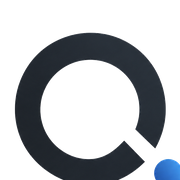
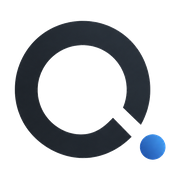
a

diff --git a/demos.html b/demos.html
@@ -42,7 +42,7 @@
 <div class="scrim" id="scrim" hidden></div>
 <aside class="drawer" id="drawer" role="dialog" aria-modal="true" aria-label="Menu" hidden>
   <div class="d-head">
-    <span class="brand">Quorelia</span>
+    <span class="brand"><img src="quorelia-mark-64.png" alt="" width="22" height="22" style="display:inline-block;"><span>Quorelia</span></span>
     <button class="burger" id="d-close" style="display:block" aria-label="Close">
       <svg viewBox="0 0 24 24" fill="none" stroke="currentColor" stroke-width="1.6" stroke-linecap="round"><path d="M5 5l14 14M19 5L5 19"/></svg>
     </button>
@@ -66,7 +66,7 @@
 
 <header class="head">
   <div class="wrap nav">
-    <a href="index.html" class="brand">Quorelia</a>
+    <a href="index.html" class="brand"><img src="quorelia-mark-64.png" alt="" width="22" height="22" style="display:inline-block;"><span>Quorelia</span></a>
     <nav class="nav-links">
       <a href="index.html#software" data-i18n="nav_sw">Our Software</a>
       <a href="demos.html" class="on" data-i18n="nav_demos">Demos</a>
@@ -184,7 +184,7 @@
   <div class="wrap">
     <div class="f-grid">
       <div>
-        <a href="index.html" class="brand" style="display:inline-block;margin-bottom:14px;">Quorelia</a>
+        <a href="index.html" class="brand" style="display:inline-block;margin-bottom:14px;"><img src="quorelia-mark-64.png" alt="" width="22" height="22" style="display:inline-block;"><span>Quorelia</span></a>
         <p style="font-size:13.5px;color:var(--ink-2);max-width:34ch;" data-i18n="f_desc">Intelligence for critical energy infrastructure. Solar, wind and storage.</p>
       </div>
       <div>

diff --git a/story.html b/story.html
@@ -53,7 +53,7 @@
 <div class="scrim" id="scrim" hidden></div>
 <aside class="drawer" id="drawer" role="dialog" aria-modal="true" aria-label="Menu" hidden>
   <div class="d-head">
-    <span class="brand">Quorelia</span>
+    <span class="brand"><img src="quorelia-mark-64.png" alt="" width="22" height="22" style="display:inline-block;"><span>Quorelia</span></span>
     <button class="burger" id="d-close" style="display:block" aria-label="Close">
       <svg viewBox="0 0 24 24" fill="none" stroke="currentColor" stroke-width="1.6" stroke-linecap="round"><path d="M5 5l14 14M19 5L5 19"/></svg>
     </button>
@@ -77,7 +77,7 @@
 
 <header class="head">
   <div class="wrap nav">
-    <a href="index.html" class="brand">Quorelia</a>
+    <a href="index.html" class="brand"><img src="quorelia-mark-64.png" alt="" width="22" height="22" style="display:inline-block;"><span>Quorelia</span></a>
     <nav class="nav-links">
       <a href="index.html#software" data-i18n="nav_sw">Our Software</a>
     <a href="index.html#platform" data-i18n="nav_plat">Control Center</a>
@@ -194,7 +194,7 @@
   <div class="wrap">
     <div class="f-grid">
       <div>
-        <a href="index.html" class="brand" style="display:inline-block;margin-bottom:14px;">Quorelia</a>
+        <a href="index.html" class="brand" style="display:inline-block;margin-bottom:14px;"><img src="quorelia-mark-64.png" alt="" width="22" height="22" style="display:inline-block;"><span>Quorelia</span></a>
         <p style="font-size:13.5px;max-width:34ch;" data-i18n="f_desc">Intelligence for critical energy infrastructure. Solar, wind and storage.</p>
       </div>
       <div>

diff --git a/index.html b/index.html
@@ -38,7 +38,7 @@
 <div class="scrim" id="scrim" hidden></div>
 <aside class="drawer" id="drawer" role="dialog" aria-modal="true" aria-label="Menu" hidden>
   <div class="d-head">
-    <span class="brand">Quorelia</span>
+    <span class="brand"><img src="quorelia-mark-64.png" alt="" width="22" height="22" style="display:inline-block;"><span>Quorelia</span></span>
     <button class="burger" id="d-close" style="display:block" aria-label="Close">
       <svg viewBox="0 0 24 24" fill="none" stroke="currentColor" stroke-width="1.6" stroke-linecap="round"><path d="M5 5l14 14M19 5L5 19"/></svg>
     </button>
@@ -64,7 +64,7 @@
 
 <header class="head">
   <div class="wrap nav">
-    <a href="index.html" class="brand">Quorelia</a>
+    <a href="index.html" class="brand"><img src="quorelia-mark-64.png" alt="" width="22" height="22" style="display:inline-block;"><span>Quorelia</span></a>
     <nav class="nav-links">
       <a href="#software" data-i18n="nav_sw">Our Software</a>
     <a href="#platform" data-i18n="nav_plat">Control Center</a>
@@ -730,7 +730,7 @@
   <div class="wrap">
     <div class="f-grid">
       <div>
-        <a href="index.html" class="brand" style="display:inline-block;margin-bottom:14px;">Quorelia</a>
+        <a href="index.html" class="brand" style="display:inline-block;margin-bottom:14px;"><img src="quorelia-mark-64.png" alt="" width="22" height="22" style="display:inline-block;"><span>Quorelia</span></a>
         <p style="font-size:13.5px;color:var(--ink-2);max-width:34ch;" data-i18n="f_desc">Intelligence for critical energy infrastructure. Solar, wind and storage.</p>
       </div>
       <div>

diff --git a/gobierno.html b/gobierno.html
@@ -52,7 +52,7 @@
 <div class="scrim" hidden="" id="scrim"></div>
 <aside aria-label="Menú" aria-modal="true" class="drawer" hidden="" id="drawer" role="dialog">
 <div class="d-head">
-<span class="brand">Quorelia</span>
+<span class="brand"><img src="quorelia-mark-64.png" alt="" width="22" height="22" style="display:inline-block;"><span>Quorelia</span></span>
 <button aria-label="Cerrar" class="burger" id="d-close" style="display:block">
 <svg fill="none" stroke="currentColor" stroke-linecap="round" stroke-width="1.6" viewbox="0 0 24 24"><path d="M5 5l14 14M19 5L5 19"></path></svg>
 </button>
@@ -295,7 +295,7 @@
 <div class="wrap">
 <div class="f-grid">
 <div>
-<a href="index.html" class="brand" style="display:inline-block;margin-bottom:14px;">Quorelia</a>
+<a href="index.html" class="brand" style="display:inline-block;margin-bottom:14px;"><img src="quorelia-mark-64.png" alt="" width="22" height="22" style="display:inline-block;"><span>Quorelia</span></a>
 <p data-i18n="g146" style="font-size:13.5px;max-width:34ch;">Inteligencia para infraestructura energética crítica. Solar, eólica y almacenamiento.</p>
 </div>
 <div>

diff --git a/informe.html b/informe.html
@@ -44,7 +44,7 @@
 <div class="scrim" id="scrim" hidden></div>
 <aside class="drawer" id="drawer" role="dialog" aria-modal="true" aria-label="Menu" hidden>
   <div class="d-head">
-    <span class="brand">Quorelia</span>
+    <span class="brand"><img src="quorelia-mark-64.png" alt="" width="22" height="22" style="display:inline-block;"><span>Quorelia</span></span>
     <button class="burger" id="d-close" style="display:block" aria-label="Close">
       <svg viewBox="0 0 24 24" fill="none" stroke="currentColor" stroke-width="1.6" stroke-linecap="round"><path d="M5 5l14 14M19 5L5 19"/></svg>
     </button>
@@ -68,7 +68,7 @@
 
 <header class="head">
   <div class="wrap nav">
-    <a href="index.html" class="brand">Quorelia</a>
+    <a href="index.html" class="brand"><img src="quorelia-mark-64.png" alt="" width="22" height="22" style="display:inline-block;"><span>Quorelia</span></a>
     <nav class="nav-links">
       <a href="index.html#software" data-i18n="nav_sw">Our Software</a>
       <a href="demos.html" data-i18n="nav_demos">Demos</a>

diff --git a/quorelia.css b/quorelia.css
@@ -105,7 +105,9 @@ section > .wrap > h2{max-width:24ch;}
 .head{position:sticky;top:0;z-index:50;background:rgba(255,255,255,.92);
   backdrop-filter:saturate(180%) blur(12px);border-bottom:1px solid var(--line);}
 .nav{display:flex;align-items:center;justify-content:space-between;gap:16px;padding:14px 0;}
-.brand{font-family:var(--mono);font-weight:500;font-size:15px;letter-spacing:.24em;text-transform:uppercase;}
+.brand{font-family:var(--mono);font-weight:500;font-size:15px;letter-spacing:.24em;text-transform:uppercase;
+  display:inline-flex;align-items:center;gap:10px;}
+.brand img{flex:none;}
 .nav-links{display:flex;gap:30px;font-size:14px;color:var(--ink-2);}
 .nav-links a:hover{color:var(--ink);}
 .nav-links a.on{color:var(--ink);font-weight:600;}

diff --git a/privacidad.html b/privacidad.html
@@ -47,7 +47,7 @@
 
 <header class="head">
   <div class="wrap nav">
-    <a href="index.html" class="brand">Quorelia</a>
+    <a href="index.html" class="brand"><img src="quorelia-mark-64.png" alt="" width="22" height="22" style="display:inline-block;"><span>Quorelia</span></a>
     <nav class="nav-links">
       <a href="index.html#software">Plataforma</a>
       <a href="demos.html">Demos</a>

diff --git a/terminos.html b/terminos.html
@@ -41,7 +41,7 @@
 
 <header class="head">
   <div class="wrap nav">
-    <a href="index.html" class="brand">Quorelia</a>
+    <a href="index.html" class="brand"><img src="quorelia-mark-64.png" alt="" width="22" height="22" style="display:inline-block;"><span>Quorelia</span></a>
     <nav class="nav-links">
       <a href="index.html#software">Plataforma</a>
       <a href="demos.html">Demos</a>
